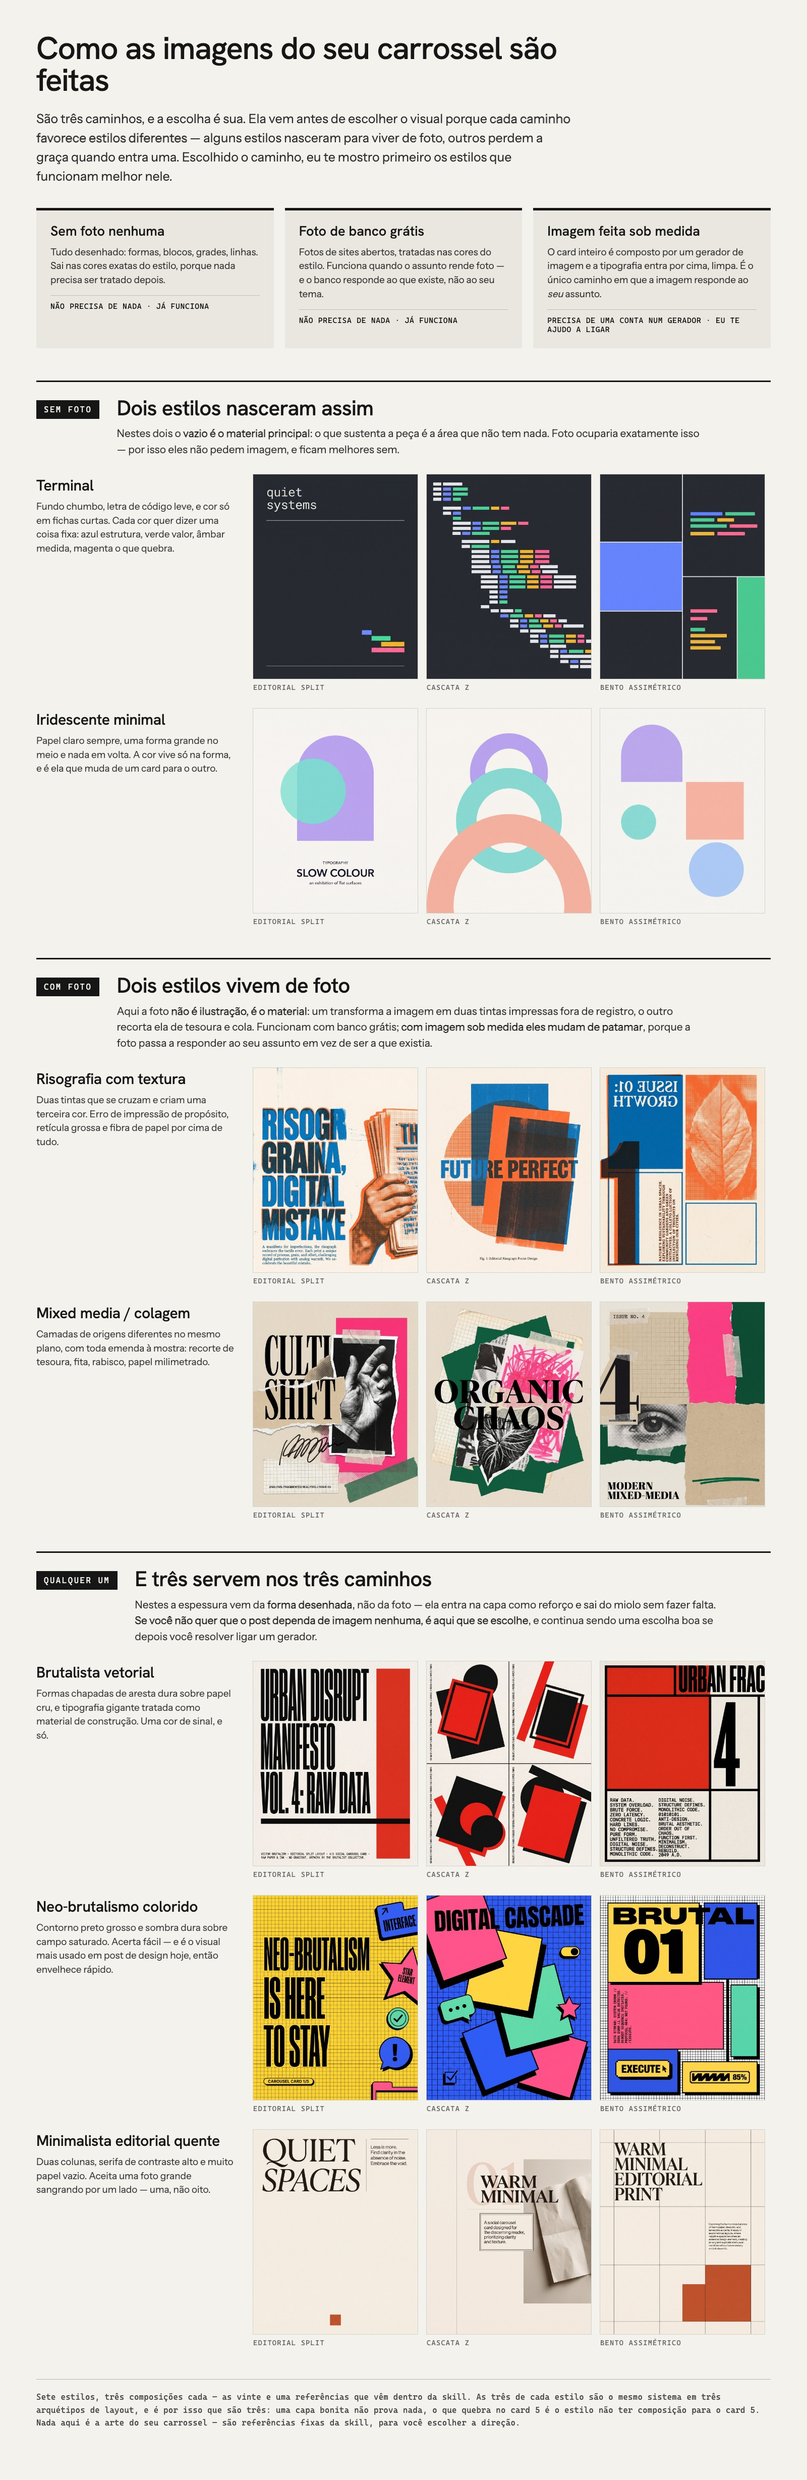
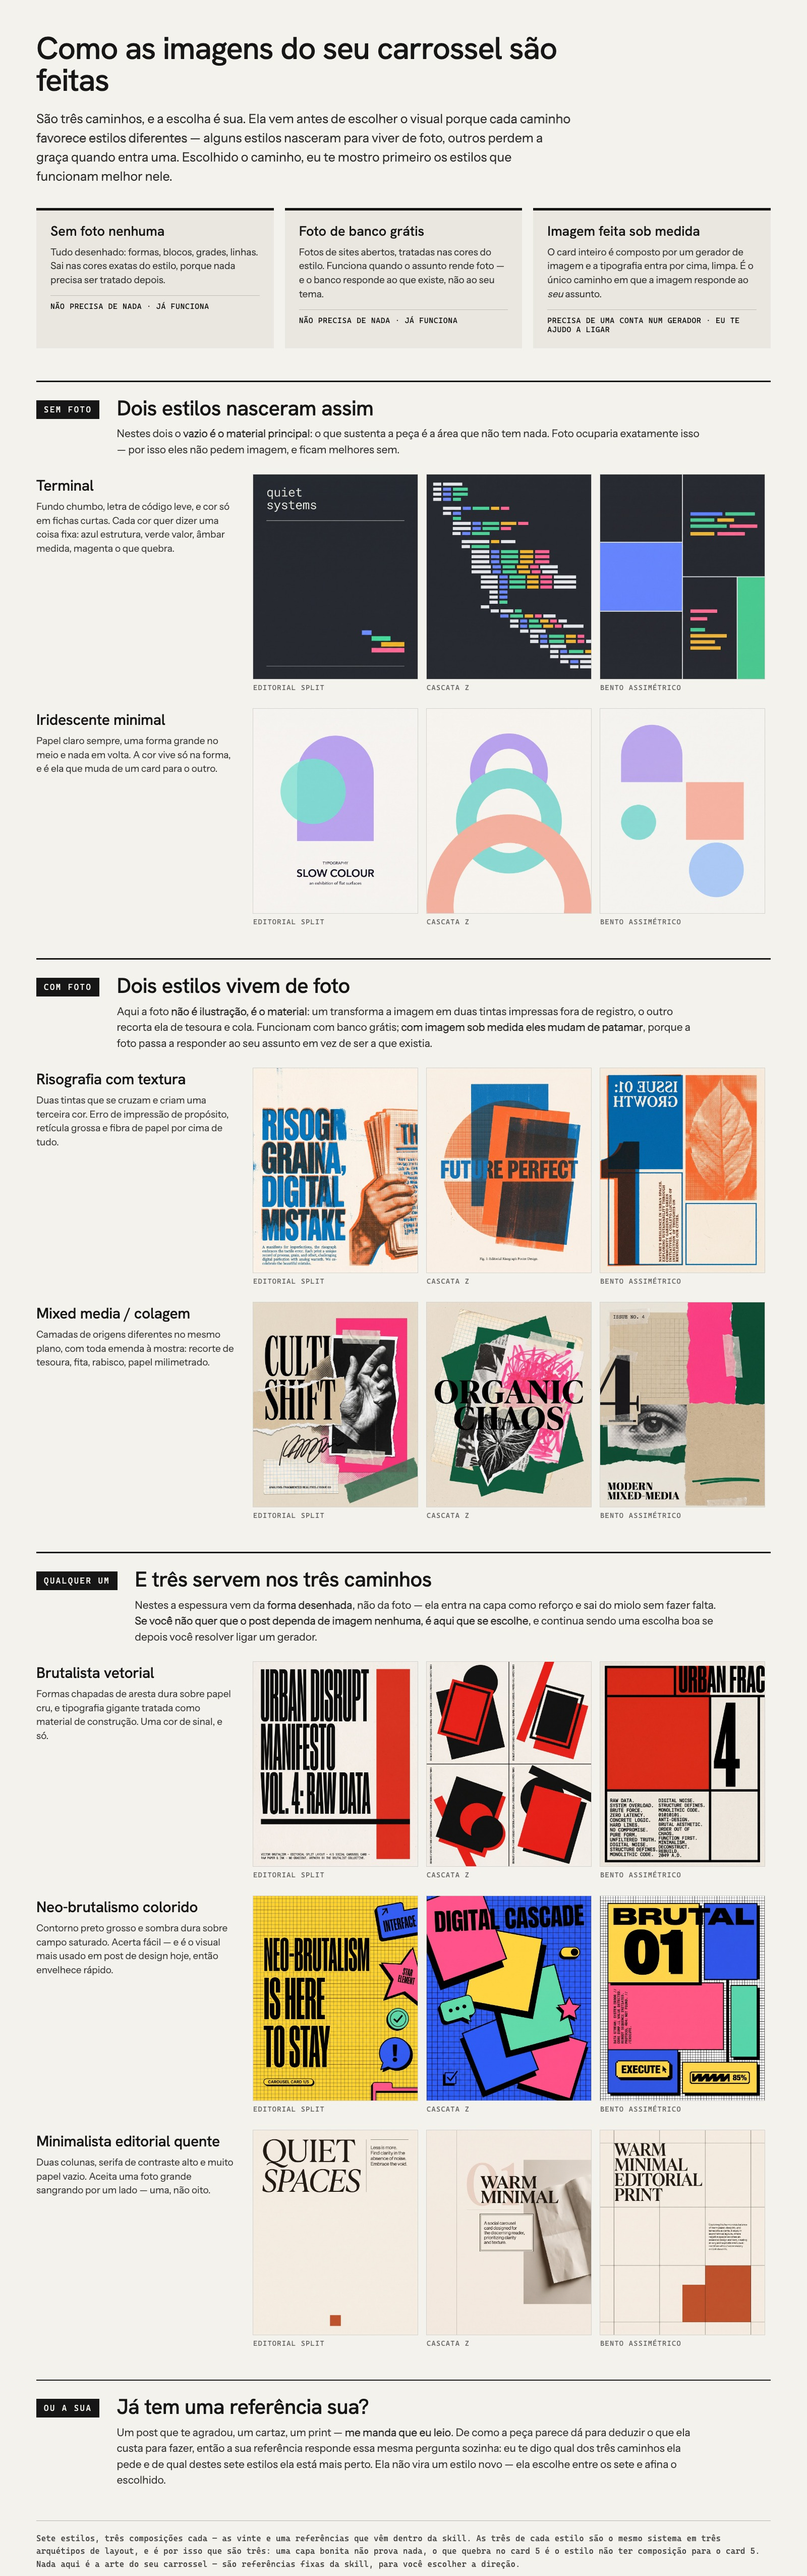
referencia do proprio usuario entra na etapa 1, nao na 2
Ela responde a pergunta do nivel AO CONTRARIO: em vez de escolher como as
imagens sao feitas, o usuario mostra como a peca parece — e de como ela parece
se deduz o que ela custa para fazer. E o jeito mais confortavel de responder
essa etapa, e o unico que nao exige entender nada de producao.

O mesmo criterio do funil roda nos dois sentidos. As cinco perguntas da leitura:
onde esta a massa (foto, forma ou vazio), se o tipo e o evento ou legenda,
quantas cores e se sao chapadas, se ha material impresso, e qual arquetipo de
composicao. As respostas caem direto no caminho e no estilo mais proximo.

Tres regras que o resto depende:

- desfazer a ambiguidade ANTES de olhar. "Referencia de como quero que fique"
  e "imagem para entrar na arte" sao coisas diferentes com o mesmo nome, e
  confundi-las poe a foto do usuario dentro do card sem ninguem decidir isso.
  Imagem para usar e material, e os direitos sao de quem mandou.
- referencia NAO vira um oitavo estilo. Ela escolhe entre os sete e afina o
  escolhido. Insistindo em sair dos sete, e decisao dele, dita em uma linha.
- escolhido "feitas sob medida", a referencia nao mexe no caminho: com gerador
  os sete funcionam bem. Ali ela serve melhor entrando no bloco de prompt e
  como midia de referencia na geracao — o mecanismo do laco do gabarito.

O board ganhou o bloco "ou a sua", senao a opcao so existiria para quem le o
chat inteiro.

diff --git a/assets/board/board.html b/assets/board/board.html
@@ -200,6 +200,20 @@ que funcionam melhor nele.</p>
   </div>
 </div>
 
+<div class="bloco" style="border-top-width:2px">
+  <div class="cab">
+    <div class="n">ou a sua</div>
+    <div class="txt">
+      <h2>Já tem uma referência sua?</h2>
+      <p>Um post que te agradou, um cartaz, um print — <b>me manda que eu leio</b>. De como a
+         peça parece dá para deduzir o que ela custa para fazer, então a sua referência responde
+         essa mesma pergunta sozinha: eu te digo qual dos três caminhos ela pede e de qual destes
+         sete estilos ela está mais perto. Ela não vira um estilo novo — ela escolhe entre os
+         sete e afina o escolhido.</p>
+    </div>
+  </div>
+</div>
+
 <div class="pe">
   Sete estilos, três composições cada — as vinte e uma referências que vêm dentro da skill.
   As três de cada estilo são o mesmo sistema em três arquétipos de layout, e é por isso que são

diff --git a/SKILL.md b/SKILL.md
@@ -169,6 +169,63 @@ Três coisas ditas junto, em uma linha cada:
 - **Banco depende do tema dar foto.** Relacionamento, viagem, comida, trabalho manual: rende.
   Um método, um conceito, uma ferramenta: não existe foto disso, e aí o desenho ganha
 
+### Se ele trouxer uma referência própria
+
+**Ofereça isso junto com o board, não depois:**
+
+> *"Se você já tem uma referência que te agradou — um post, um cartaz, um print —, me manda.
+> Eu leio ela e te digo qual desses caminhos ela pede."*
+
+Uma referência trazida pelo usuário **responde à pergunta da etapa 1 ao contrário**: em vez de
+ele escolher como as imagens são feitas, ele mostra como a peça parece, e de como ela parece se
+deduz o que ela custa para fazer. É o jeito mais confortável de responder essa etapa, e o único
+que não exige que ele entenda nada de produção.
+
+**Antes de olhar, desfaça a ambiguidade** — são duas coisas diferentes com o mesmo nome, e
+confundi-las coloca a foto do usuário dentro do card sem ninguém decidir isso:
+
+◇ **Isso é uma referência de como você quer que fique, ou é uma imagem para entrar na arte?**
+
+Imagem para entrar na arte é **material**, não referência: vai para o fluxo de quem entrega
+arquivo pronto, e os direitos de uso são de quem mandou — diga isso uma vez, sem sermão.
+
+**A leitura, em cinco perguntas.** São as mesmas cinco em qualquer referência, e as respostas
+caem direto no critério do funil:
+
+| o que olhar | e o que isso quer dizer |
+|---|---|
+| **Onde está a massa da peça** — foto, forma chapada, ou vazio | é o critério inteiro: define o caminho |
+| **A tipografia é o evento ou é legenda** | tipo gigante pede estilo de forma; tipo pequeno pede vazio ou foto |
+| **Quantas cores, e são chapadas ou têm rampa** | rampa contínua pede foto ou meio-tom; chapado dispensa os dois |
+| **Tem material — grão, retícula, fibra, textura — ou é limpo** | material impresso quase sempre veio de foto processada |
+| **A composição é split, cascata, bento ou centralizada** | diz qual arquétipo o carrossel vai puxar, e centralizada é sinal de iridescente |
+
+Devolva em **duas frases, sem jargão**, e nessa ordem: o que a peça precisa para existir, e de
+qual dos sete ela está mais perto.
+
+> *"Essa aí vive de foto tratada — dá para fazer com banco grátis, e fica ainda mais parecida
+> com imagem sob medida. Entre os sete, ela é praticamente a colagem."*
+
+**A referência não vira um oitavo estilo.** Ela escolhe entre os sete e afina o escolhido —
+paleta, peso do tipo, quanto de vazio. Direção inventada na hora sai bonita na capa e quebra no
+card 5, e é por isso que os sete são fechados. Se o usuário insistir em reproduzir a referência
+fora dos sete, é decisão dele: diga em uma linha que a direção não passou por teste de escala,
+e siga.
+
+**Se ele já escolheu "feitas sob medida", a referência não mexe no caminho.** Com gerador ligado
+os sete funcionam bem, e aí ela serve para duas coisas melhores: entra no **bloco de prompt** do
+estilo escolhido, e entra na geração como **mídia de referência** — o mesmo mecanismo que o laço
+do gabarito já usa para manter os sete cards irmãos.
+
+Grave no `DIRECAO.md`:
+
+```markdown
+referencia: caminho/do/arquivo.jpg · lida em AAAA-MM-DD · resolveu para colagem
+```
+
+E uma linha que evita um mal-entendido caro: **referência é referência, não modelo para copiar.**
+A peça sai no sistema do estilo escolhido, não decalcada — e é isso que a mantém sua.
+
 ### Se escolheu **feitas sob medida**
 
 ◇ **Você já tem conta em algum gerador de imagem?**
@@ -611,6 +668,8 @@ Estes pensamentos aparecem quando o usuário diz "tenho pressa". Todos custam ma
 | "Com pressa, conversa de setup é hostil" | Roda uma vez e fica salva. Errar a lista invalida os oito cards |
 | "Descrevo os sete estilos, ele escolhe pelo nome" | Ninguém escolhe direção visual lendo. Abra as três referências fixas do estilo |
 | "Pergunto o estilo primeiro, imagem depois" | Era assim, e não funcionava. O nível é o funil: perguntado depois, ele vira detalhe — e o estilo escolhido pode ser justamente o que menos aproveita o nível que ele tem |
+| "Ele mandou uma imagem, então é para usar no card" | Pergunte qual das duas coisas é. Referência é como ele quer que fique; imagem para entrar na arte é material, com direitos dele. Confundir põe a foto dentro do card sem ninguém ter decidido isso |
+| "A referência dele é a direção, vou reproduzir" | Ela escolhe entre os sete e afina o escolhido. Direção inventada na hora sai bonita na capa e quebra no card 5 — é a razão de os sete serem fechados |
 | "Mostro só os recomendados, é mais rápido" | O usuário precisa saber que são sete. O funil ordena, não esconde — e três deles servem em qualquer nível, o que é informação de decisão |
 | "Adianto a arte enquanto ele responde o texto" | Arte nenhuma existe antes da etapa 7. Nem para adiantar, nem para ilustrar a conversa |
 | "Meu default escuro com acento neon é bonito e seguro" | É exatamente o visual que hoje lê como IA. Seguro e indistinguível são a mesma coisa |

diff --git a/references/estilos.md b/references/estilos.md
@@ -58,6 +58,17 @@ peça dependa de imagem escolhe exatamente ali**, e essa decisão só aparece se
 ele escolher fora da recomendação, diga o que muda em uma linha, ofereça mudar de nível **uma
 vez**, e siga com a escolha dele.
 
+### O critério roda nos dois sentidos
+
+A mesma pergunta que ordena os estilos **lê uma referência trazida pelo usuário**: olhe onde está
+a massa da peça — foto, forma ou vazio — e você tem o caminho que ela exige e o estilo de que ela
+está mais perto. É por isso que a oferta de mandar referência mora na etapa 1 e não na 2: ela
+responde à pergunta do nível, só que de trás para frente.
+
+O protocolo — as cinco perguntas da leitura, o que devolver ao usuário e a regra de que
+referência não vira um oitavo estilo — está na
+[etapa 1 da SKILL.md](../SKILL.md#se-ele-trouxer-uma-referência-própria).
+
 ## Escolha
 
 Os sete rodam **sem nenhum gerador de imagem** — todo grafismo é CSS/SVG. Dois mudam de patamar com gerador conectado:

diff --git a/README.md b/README.md
@@ -56,6 +56,11 @@ Na hora de escolher o nível, a skill abre um **board** (`assets/board-niveis.jp
 caminhos lado a lado e os sete estilos agrupados por afinidade — o que cada caminho custa, e que
 cara ele tem. Ele se regera com `assets/board/gerar.sh`.
 
+**Você pode mandar a sua própria referência** em vez de responder a pergunta: de como a peça
+parece dá para deduzir o que ela custa para fazer, então a skill lê a referência e devolve qual
+caminho ela pede e de qual dos sete estilos ela está mais perto. Ela não vira um oitavo estilo —
+escolhe entre os sete e afina o escolhido.
+
 **O nível de imagem vem antes do estilo, e é de propósito.** Cada nível favorece estilos
 diferentes — terminal e iridescente nasceram sem foto, riso e colagem mudam de patamar com uma —,
 então a escolha do nível já ordena a lista. Os sete continuam à vista; o que muda é por onde a
